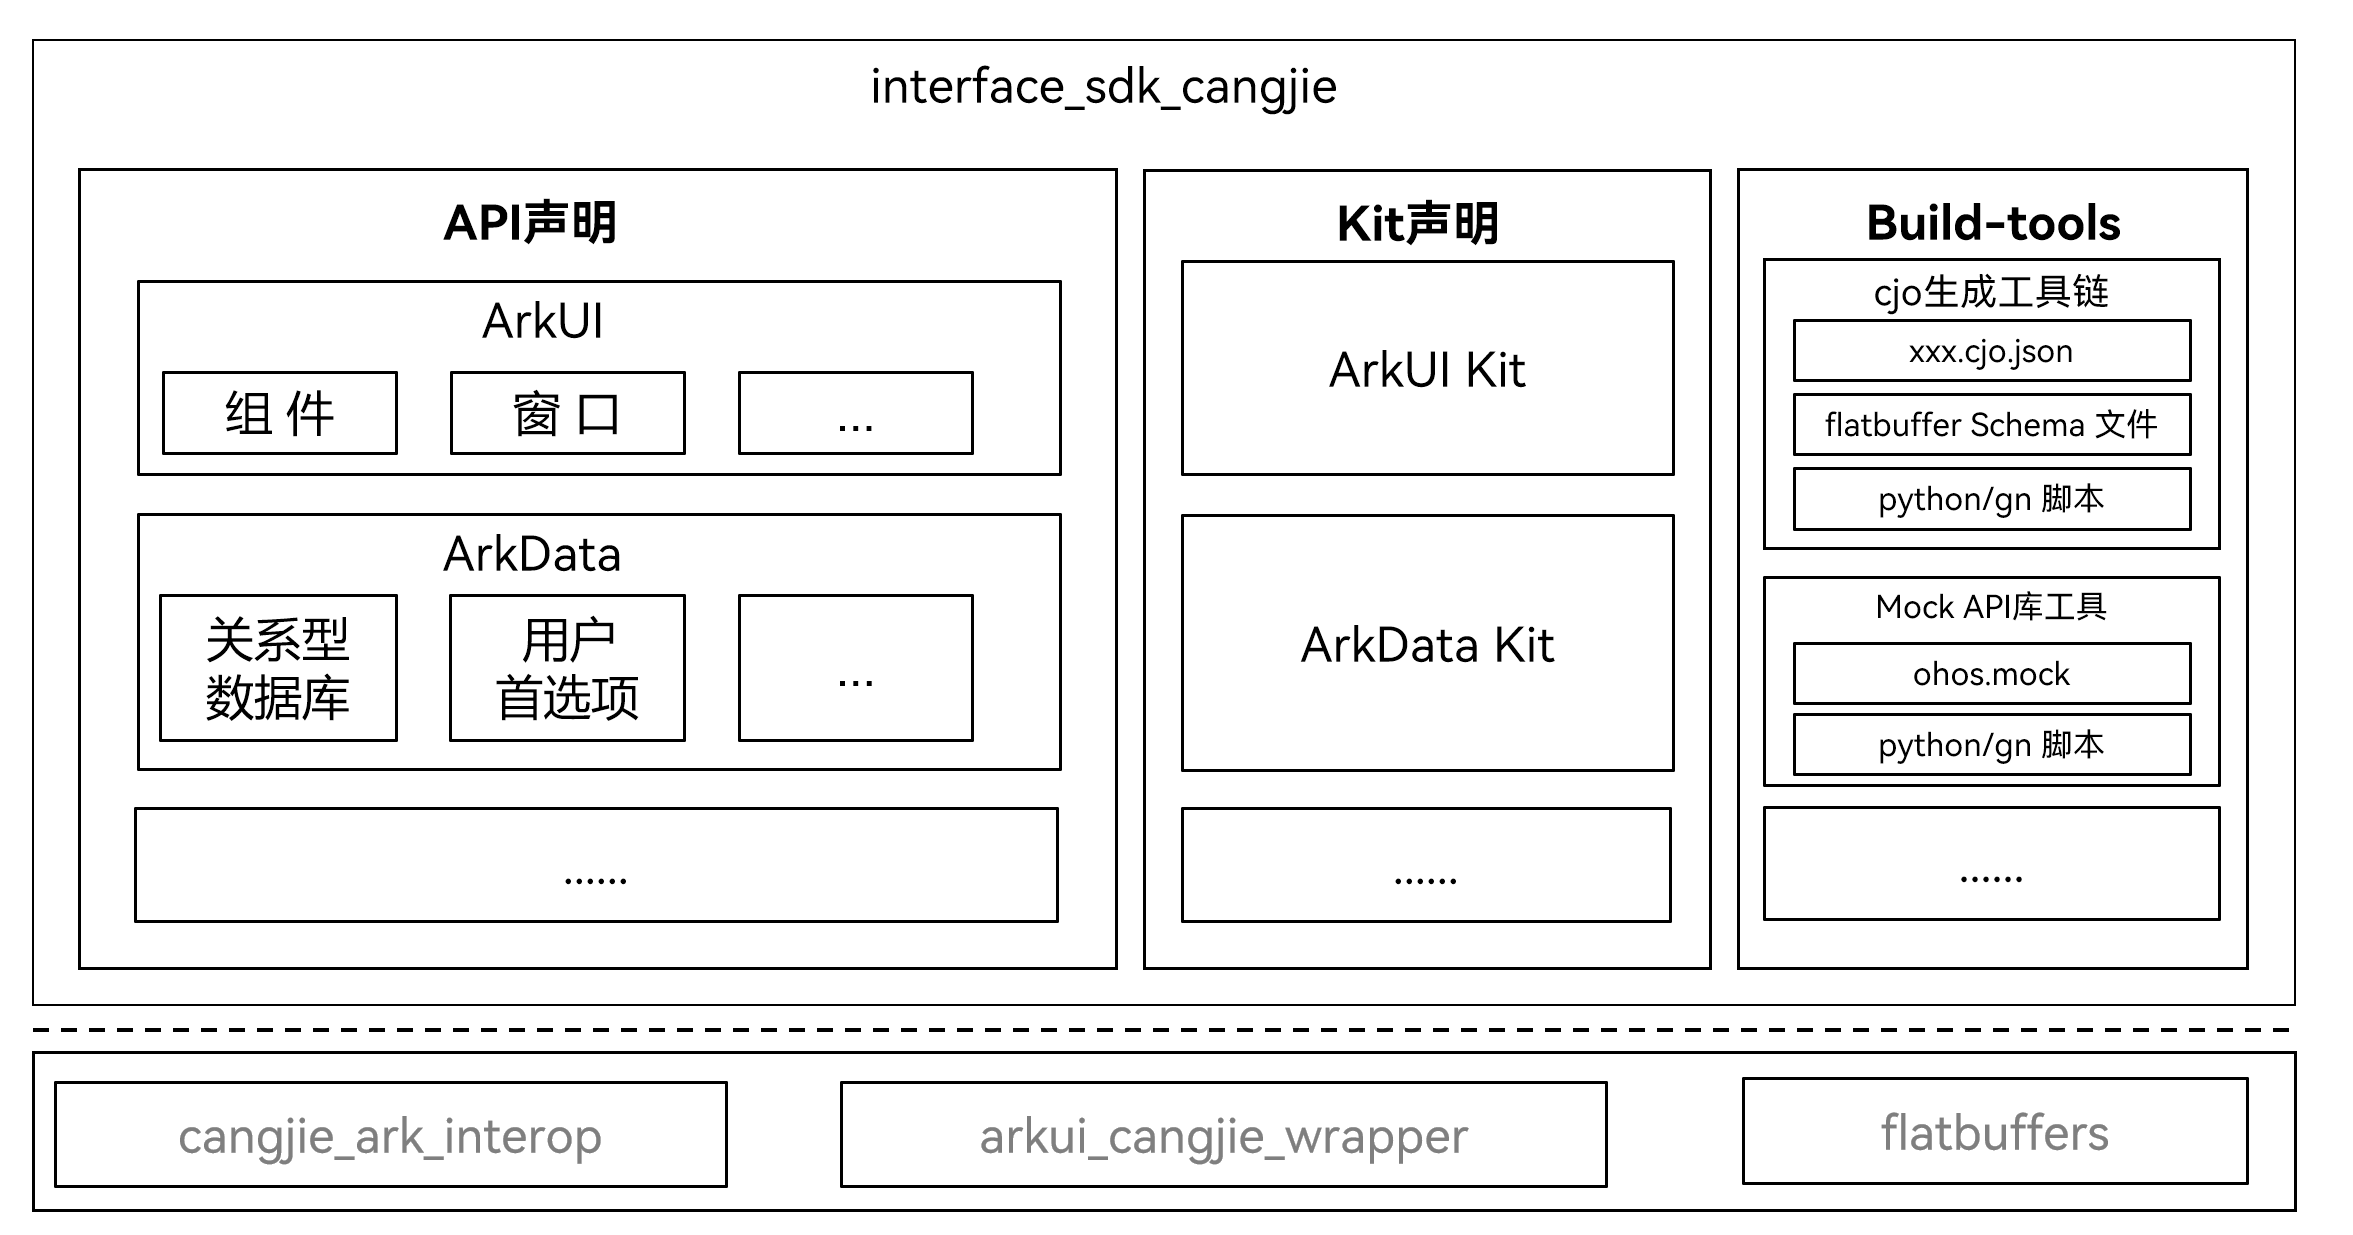
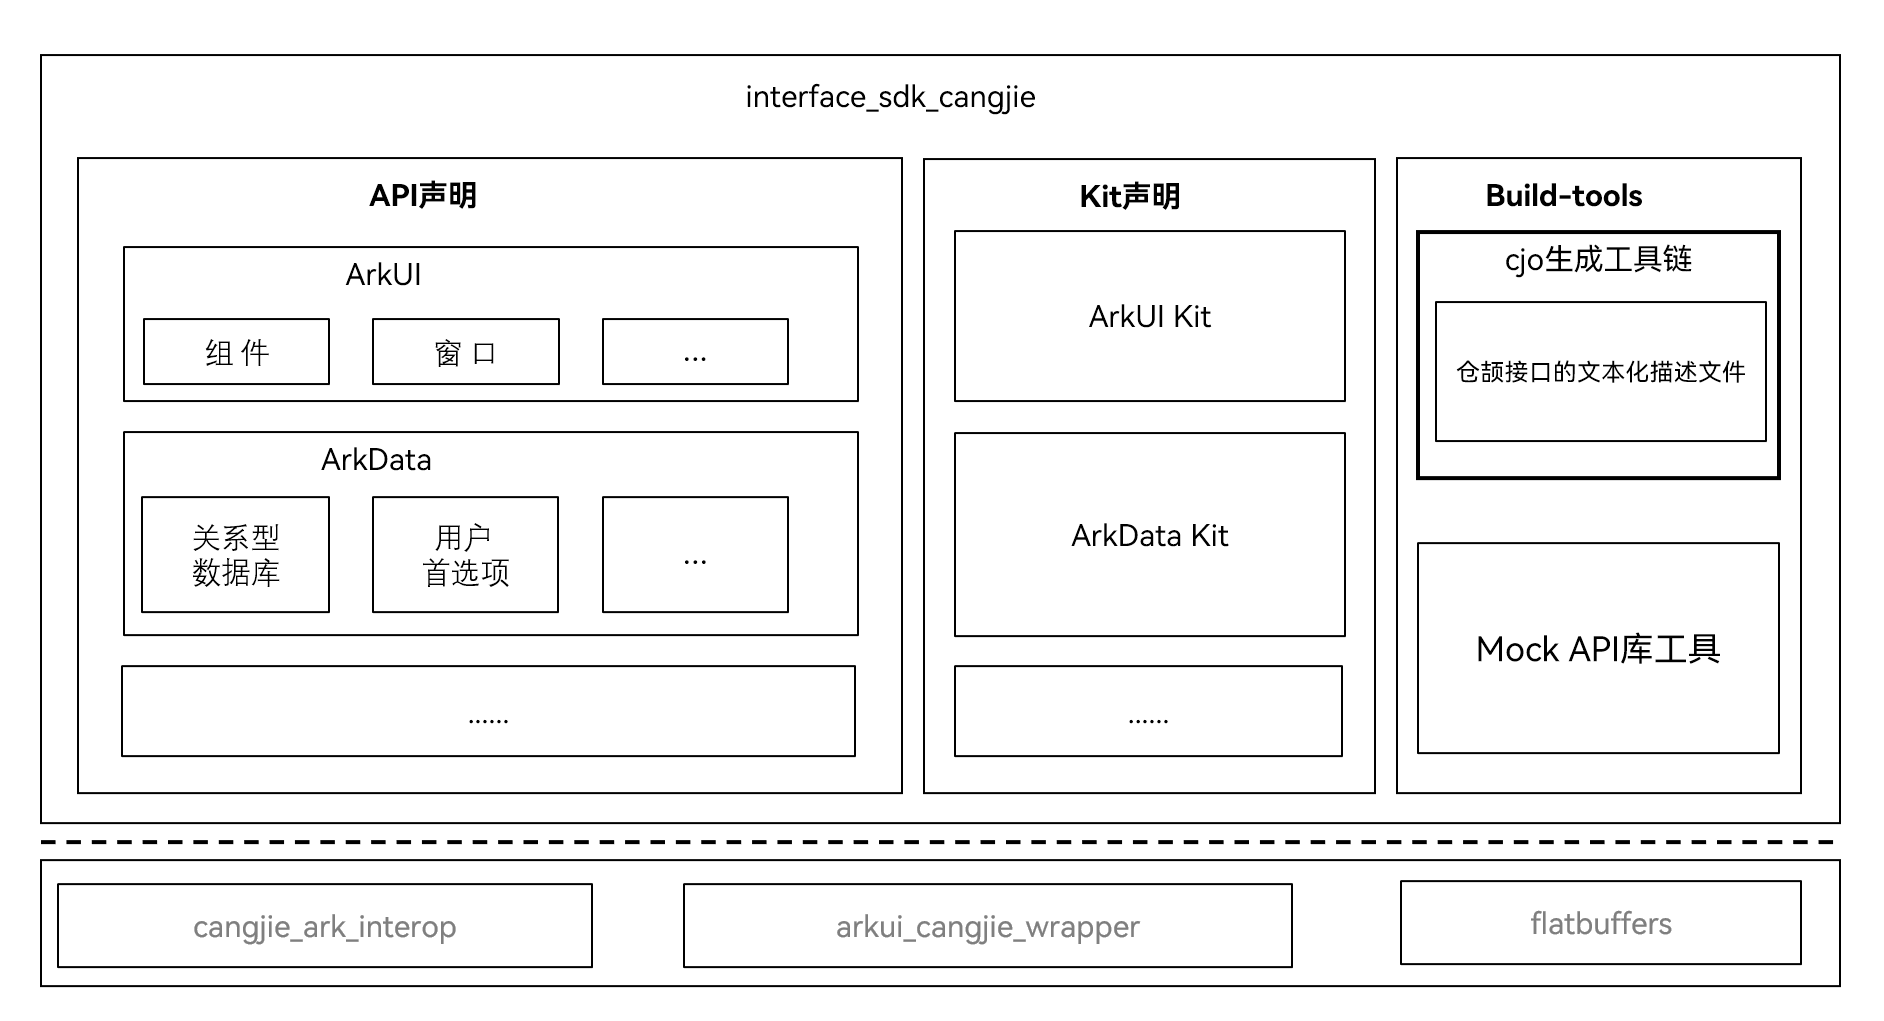
Update Readme

Changed region(s): [[0.0, 0.0304, 0.9851, 1.0], [0.5541, 0.2733, 0.6465, 0.334], [0.5541, 0.4858, 0.6773, 0.5465]]

diff --git a/README.md b/README.md
@@ -14,16 +14,23 @@ Currently, the Cangjie API only supports standard devices.
 
 As shown in the architecture diagram:
 
-- API Declaration: Cangjie API declaration files (xxx.cj.d), mainly including ohos modules and Cangjie standard library related API declaration files, stored in directories according to Kit ownership.
-- Kit Declaration: Unified external declaration files of Cangjie kit modules.
-- build-tools: SDK building toolset, such as cjo generation tools, mock API library tools, etc.
-  - cjo generation toolchain: Including cjo deserialization files (xxx.cjo.json) of each Cangjie API module, FlatBuffers Schema files, and related build scripts. Mainly used during SDK building to quickly serialize xxx.cjo.json into cjo of each Cangjie API module through the flatc tool. For detailed introduction to Cangjie cjo and serialization/deserialization build process, please refer to [Cangjie cjo](https://gitcode.com/Cangjie/cangjie_docs/blob/08234c9e52cd55a6f1a2521c65f39745fa6d64a3/docs/dev-guide/source_en/Appendix/cjo_artifacts.md) and [Cangjie cjo build](build-tools/cjo/README.md).
-  - mock API library tool: Contains an empty implementation ohos.mock module and related build scripts. During SDK building, the ohos.mock dynamic library is used as a copy object to generate empty implementation dynamic libraries for each Cangjie API module.
+- **API Declaration:** Cangjie ohos modules and Cangjie standard library related API declaration files.
+- **Kit Declaration:** Unified external declaration files of Cangjie kit modules.
+- **build-tools:** SDK building toolset, mainly including the following tools:
+  - **cjo generation toolchain:** Mainly consists of three parts:
+    - Textual description files of Cangjie interfaces: Contains metadata such as package interface information, type definitions, function declarations, etc. During SDK building, the flatc tool and FlatBuffers Schema files are used to serialize the textual description files of Cangjie interfaces into cjo files of each Cangjie API module.
+
+      For detailed introduction to Cangjie cjo and the serialization and deserialization build process of Cangjie cjo and JSON, please refer to [Cangjie cjo](https://gitcode.com/Cangjie/cangjie_docs/blob/08234c9e52cd55a6f1a2521c65f39745fa6d64a3/docs/dev-guide/source_en/Appendix/cjo_artifacts.md) and [Cangjie cjo Serialization and Deserialization Guide](docs/cangjie_cjo_serialization_and_deserialization_guide.md).
+    - FlatBuffers Schema files.
+    - python/gn related build scripts.
+
+  - **API mock library generation tool:** Contains an empty implementation ohos.mock module and related build scripts to support building SDK to generate empty implementation dynamic library objects for each Cangjie API module.
 
 Dependencies introduction in the architecture diagram:
 
 - cangjie_ark_interop: The macro package in Cangjie SDK depends on the Cangjie-ArkTS interoperability interface repository to build interoperability macros.
 - arkui_cangjie_wrapper: The macro package in Cangjie SDK depends on the ArkUI development framework Cangjie interface repository to build state management macros.
+- flatbuffers: A high memory-efficient cross-platform serialization library that provides the flatc tool to support the Cangjie SDK to build Cangjie cjo files.
 
 Code directory structure:
 ```
@@ -39,6 +46,7 @@ interface/sdk_cangjie
 │   │   └── mock                 # Scripts related to mock API library                      
 │   └── script                   # Scripts related to SDK building
 ├── figures                      # README images
+├── docs
 ├── LICENSE
 └── bundle.json
 ```
@@ -50,19 +58,24 @@ interface/sdk_cangjie
 
 **ohos-sdk:**
 
-- OpenHarmony SDK currently consists of js, ets, native, toolchains, previewer, and cangjie components. This repository mainly involves the cangjie part building.
+- OpenHarmony SDK consists of js, ets, native, toolchains, previewer, and cangjie components. This repository mainly involves the cangjie part.
 
 **api:**
 
- - lib package currently only supports ohos-related cross-compilation packages, storing empty implementation Cangjie API dynamic libraries generated by the mock API tool and Cangjie cjo serialized by the flatc tool.
-   - ohos-aarch64: For cross-building ohos-aarch64 applications.
-   - ohos-x86_64: For cross-building ohos-x86_64 applications, mainly provided for ohos x86_64 simulator use.
- - api module package stores Cangjie API external declaration files and lto bitcode files.
-   - Cangjie API external declaration header files are copied from the api and kit directories of this repository and packaged into the Cangjie SDK.
-   - lto bitcode products are under planning and not supported yet.
- - api macro package mainly stores Cangjie macro-related libraries. (For detailed introduction to Cangjie macros, please refer to [Cangjie Macro](https://gitcode.com/Cangjie/cangjie_docs/blob/08234c9e52cd55a6f1a2521c65f39745fa6d64a3/docs/dev-guide/source_en/Macro/macro_introduction.md))
-   - ark-interop: Cangjie interoperability macro library of the cangjie_ark_interop component, built by the gn scripts related to the interoperability macro library of the cangjie_ark_interop component.
-   - arkui state manager: Cangjie state management macro library of the arkui_cangjie_wrapper component, built by the gn scripts related to the state management macro library of the arkui_cangjie_wrapper component.
+- The lib package currently only supports ohos-related build toolchains, storing Cangjie API dynamic libraries and Cangjie cjo files.
+  - ohos-aarch64-libs: For building ohos-aarch64 application dependency libraries.
+  - ohos-x86_64-libs: For building ohos-x86_64 application dependency libraries, mainly provided for ohos x86_64 simulator use.
+
+- The api module package stores Cangjie API external declaration files and lto bitcode files.
+  - Cangjie API external declaration files are copied from the api and kit directories of this repository and packaged into the Cangjie SDK.
+  - lto bitcode products are under planning and not supported yet.
+
+- The api macro package mainly stores Cangjie macro-related dynamic libraries and cjo files.
+  
+  For detailed introduction to Cangjie macros, please refer to [Cangjie Macro Introduction](https://gitcode.com/openharmony-sig/arkcompiler_cangjie_ark_interop/blob/master/doc/User_Manual/source_en/Macro/macro_introduction.md)
+
+  - ark-interop: Cangjie interoperability macro dynamic libraries and cjo files of the cangjie_ark_interop component.
+  - arkui state manager: Cangjie state management macro dynamic libraries and cjo files of the arkui_cangjie_wrapper component.
 
 **build-tools:**
 
@@ -94,7 +107,7 @@ cangjie
 │   │   └── ohos
 │   │       ├── xxx.dll/xxx.so/xxx.dylib
 │   │       └── xxx.cjo
-│   └── modules                             # Cangjie API external declaration header files
+│   └── modules                             # Cangjie API external declaration files
 │       └── linux_ohos_aarch64_cjnative
 │           ├── kit
 │           │   └── kit.xxx.cj.d
@@ -110,10 +123,17 @@ cangjie
 └── oh-uni-package.json
 ```
 
+## Build
+
+```
+./build.sh --product-name ohos-sdk --ccache  --build-target out/sdk/gen/build/ohos/sdk:cangjie   
+```
+
+For detailed Cangjie SDK integrated build instructions, please refer to [Cangjie SDK Integrated Build Guide](docs/cangjie_sdk_build_guide.md).
+
 ## Constraints
-- The Cangjie package in ohos-sdk supports windows/linux/mac-x64/mac-arm64 platforms, but does not support the ohos platform yet.
-- Cangjie API previewer cross-compilation package is not supported yet.
-- The Cangjie API module does not support the lto function yet.
+
+- Currently, Cangjie in ohos-sdk supports cross-compilation of ohos applications on windows/linux/mac-x64/mac-arm64 platforms, but does not support building applications on ohos platform.
 
 ## Code Contribution
 

diff --git a/README_zh.md b/README_zh.md
@@ -2,7 +2,7 @@
 
 ## 简介
 
-仓颉API公共仓，用于存放和管理仓颉各个子系统对外API声明，同时提供对应的SDK构建工具，支撑Openharmony SDK中的仓颉API构建。
+仓颉API声明文件公共仓，用于存放和管理仓颉各个子系统对外API声明文件，同时提供对应的SDK构建工具，支撑Openharmony SDK中的仓颉API构建。
 
 当前仓颉接口仅支持standard设备。
 
@@ -10,20 +10,27 @@
 
 **图 1** 仓颉API公共仓架构图
 
-![](figures/interface_sdk_cangjie_architecture_zh.png)
+![仓颉API公共仓架构图](figures/interface_sdk_cangjie_architecture_zh.png)
 
 如架构图所示：
 
-- API声明：仓颉API声明文件(xxx.cj.d)，主要是ohos模块和仓颉标准库相关API声明文件，以Kit归属分目录存放。
-- Kit声明：仓颉kit模块对外统一声明文件。
-- build-tools：SDK构建相关工具集，比如生成cjo工具，mock API库工具等。
-  - cjo生成工具链：包括仓颉API各个模块的cjo 反序列化文件(xxx.cjo.json)，以及FlatBuffers Schema文件和相关构建脚本；主要用于构建SDK时，通过flatc 工具快速将xxx.cjo.json序列化成仓颉API各个模块的cjo。有关仓颉cjo以及序列化和反序列化构建过程的详细介绍，请参考[仓颉cjo](https://gitcode.com/Cangjie/cangjie_docs/blob/08234c9e52cd55a6f1a2521c65f39745fa6d64a3/docs/dev-guide/source_zh_cn/Appendix/cjo_artifacts.md)以及[仓颉cjo构建](build-tools/cjo/README_zh.md)。
-  - mock API库工具：包含一个空实现的ohos.mock模块以及相关构建脚本，构建SDK时,将ohos.mock动态库作为复制对象，拷贝生成仓颉API各个模块的空实现动态库对象。
+- **API声明:** 仓颉ohos模块和仓颉标准库相关API声明文件。
+- **Kit声明:** 仓颉各Kit模块对外统一声明文件。
+- **build-tools:** SDK构建相关工具集，主要包含以下工具：
+  - **cjo生成工具链:** 主要有三部分组成：
+    - 仓颉接口的文本化描述文件: 包含了仓颉API各模块的接口信息、类型定义、函数声明等元数据，构建SDK时，利用flatc工具以及FlatBuffers Schema 文件描述的数据结构，将仓颉接口文本化描述文件序列化成仓颉API各个模块的cjo文件。
+
+      有关仓颉cjo以及仓颉CJO和JSON序列化和反序列化构建过程的详细介绍，请参考[仓颉CJO](https://gitcode.com/Cangjie/cangjie_docs/blob/08234c9e52cd55a6f1a2521c65f39745fa6d64a3/docs/dev-guide/source_zh_cn/Appendix/cjo_artifacts.md)和[仓颉CJO序列化和反序列化指导](docs/cangjie_cjo_serialization_and_deserialization_guide.md)。
+    - FlatBuffers Schema文件。
+    - python/gn相关构建脚本。
+
+  - **API mock库生成工具**：包含一个空实现的ohos.mock模块以及相关构建脚本，支撑构建SDK生成仓颉API各个模块的空实现动态库对象。
 
 架构图中依赖部件引入说明：
 
 - cangjie_ark_interop: 仓颉SDK中 marco包依赖仓颉-ArkTS互操作接口仓构建互操作宏。
 - arkui_cangjie_wrapper: 仓颉SDK中 macro包依赖ArkUI开发框架仓颉接口仓构建状态管理宏。
+- flatbuffers: 是一个高内存效率的跨平台序列化库，提供flatc工具，支撑仓颉SDK构建仓颉cjo文件。
 
 代码目录结构：
 ```
@@ -39,30 +46,36 @@ interface/sdk_cangjie
 │   │   └── mock                 # mock API库相关脚本                      
 │   └── script                   # 构建SDK相关脚本
 ├── figures                      # README图片
+├── docs
 ├── LICENSE
 └── bundle.json
 ```
 
 ## 交付视图
 
-**图 2** 仓颉sdk交付视图
-![](figures/interface_sdk_cangjie_delivery_view.png)
+**图 2** 仓颉API公共仓架构图
+![仓颉API公共仓架构图](figures/interface_sdk_cangjie_delivery_view.png)
 
-**ohos-sdk:** 
+**ohos-sdk:**
 
-- Openharmony SDK目前由js,ets,native,toolchains, previewer以及cangjie这几个部分组成，本仓主要涉及cangjie部分构建。
+- Openharmony SDK由js, ets, native, toolchains, previewer以及cangjie这六个部分组成，本仓主要涉及cangjie部分。
 
 **api:**
 
- - lib包中 目前仅支持ohos 相关的交叉构建包，存放由mock API工具生成的空实现的仓颉API动态库以及flatc工具序列化生成的仓颉cjo。
-   - ohos-aarch64: 用于交叉构建ohos-aarch64应用。
-   - ohos-x86_64: 用于交叉构建ohos-x86_64应用,主要提供给ohos x86_64模拟器使用。
- - api moudle包存放仓颉API对外声明文件以及lto的bitcode文件。
-   - 仓颉API对外声明文件从本仓api和kit目录拷贝并打包进仓颉SDK中。
-   - lto bitcode产物正在规划中，暂不支持。
- - api macro包主要存放仓颉宏相关库。（仓颉宏的详细介绍，请参考[仓颉宏](https://gitcode.com/Cangjie/cangjie_docs/blob/08234c9e52cd55a6f1a2521c65f39745fa6d64a3/docs/dev-guide/source_zh_cn/Macro/macro_introduction.md)）
-   - ark-interop: cangjie_ark_interop部件的仓颉互操作宏库，由cangjie_ark_interop部件互操作宏库相关gn脚本构建产生。
-   - arkui state manager: arkui_cangjie_wrapper部件的仓颉状态管理宏库，由arkui_cangjie_wrapper部仓颉件状态管理宏库相关gn脚本构建产生。
+- lib包目前仅支持ohos相关的构建工具链，存放仓颉API动态库以及仓颉cjo文件。
+  - ohos-aarch64-libs: 用于构建ohos-aarch64应用依赖库。
+  - ohos-x86_64-libs: 用于构建ohos-x86_64应用的依赖库,主要提供给ohos x86_64模拟器使用。
+
+- api moudle包存放仓颉API对外声明文件以及lto的bitcode文件。
+  - 仓颉API对外声明文件从本仓api和kit目录拷贝并打包进仓颉SDK中。
+  - lto bitcode产物正在规划中，暂不支持。
+
+- api macro包主要存放仓颉宏相关动态库和cjo文件。
+  
+  仓颉宏的详细介绍，请参考[仓颉宏介绍](https://gitcode.com/openharmony-sig/arkcompiler_cangjie_ark_interop/blob/master/doc/User_Manual/source_zh_cn/Macro/macro_introduction.md)
+
+  - ark-interop: cangjie_ark_interop部件的仓颉互操作宏动态库和cjo文件。
+  - arkui state manager: arkui_cangjie_wrapper部件的仓颉状态管理宏动态库和cjo文件。
 
 **build-tools：**
 
@@ -110,10 +123,17 @@ cangjie
 └── oh-uni-package.json
 ```
 
+## 编译构建
+
+```
+./build.sh --product-name ohos-sdk --ccache  --build-target out/sdk/gen/build/ohos/sdk:cangjie   
+```
+
+仓颉SDK详细构建集成构建说明请参考 [仓颉SDK集成构建指导书](docs/cangjie_sdk_build_guide.md)。
+
 ## 约束
-- ohos-sdk中仓颉包支持windows/linux/mac-x64/mac-arm64平台，暂不支持ohos平台。
-- 暂不支持仓颉API previewer 交叉构建包。
-- 仓颉API模块暂不支持lto功能。
+
+- 当前ohos-sdk中仓颉支持windows/linux/mac-x64/mac-arm64平台交叉编译ohos应用，暂不支持ohos平台上构建应用。
 
 ## 参与贡献
 

diff --git a/docs/cangjie_sdk_build_guide.md b/docs/cangjie_sdk_build_guide.md
@@ -1,0 +1,25 @@
+# 仓颉SDK构建说明
+
+**图 1** 仓颉SDK构建示意图
+
+![仓颉SDK构建示意图](../figures/cangjie_sdk_build.png)
+
+如图所示：
+
+- 仓颉构建工具链：
+
+   1. cangjie_compiler,cangjie_runtime,cangjie_tools部件预构建后，归档到华为云([cangjie](https://repo.huaweicloud.com/harmonyos/compiler/cangjie/))。
+   2. 开发者在预下载阶段，会从华为云下载对应版本和平台的仓颉构建工具链，并解压到`ohos/prebuilts/cangjie_sdk`目录下。
+   3. 构建ohos-sdk 仓颉包时，直接从prebuilts/cangjie_sdk 拷贝并压缩对应平台的仓颉构建工具链到sdk中。
+
+- 仓颉API声明文件:
+
+  1. 开发者新增或者修改已有仓颉API对外声明时，需要同步修改interface_sdk_cangjie中api和kit下对应的声明文件。
+  2. SDK构建时会直接拷贝interface_sdk_cangjie仓中api和kit目录下头文件打包到SDK中仓颉对应的目录。
+
+- 仓颉CJO产物：
+
+  1. 开发者在新增或者修改已有仓颉API对外声明时，需要同步新增或修改interface_sdk_cangjie仓中对应模块的cjo.json文件。
+  2. cjo.json文件为仓颉API 对应模块构建后的CJO产物通过flatc工具反序列化生成，具体操作可以参考[仓颉CJO序列化和反序列化指导](../docs/cangjie_cjo_serialization_and_deserialization_guide.md)。
+
+- 仓颉宏库：仓颉宏库由arkui_cangjie_wrapper部件和cangjie_ark_interop部件构建生成，并拷贝到sdk中。
